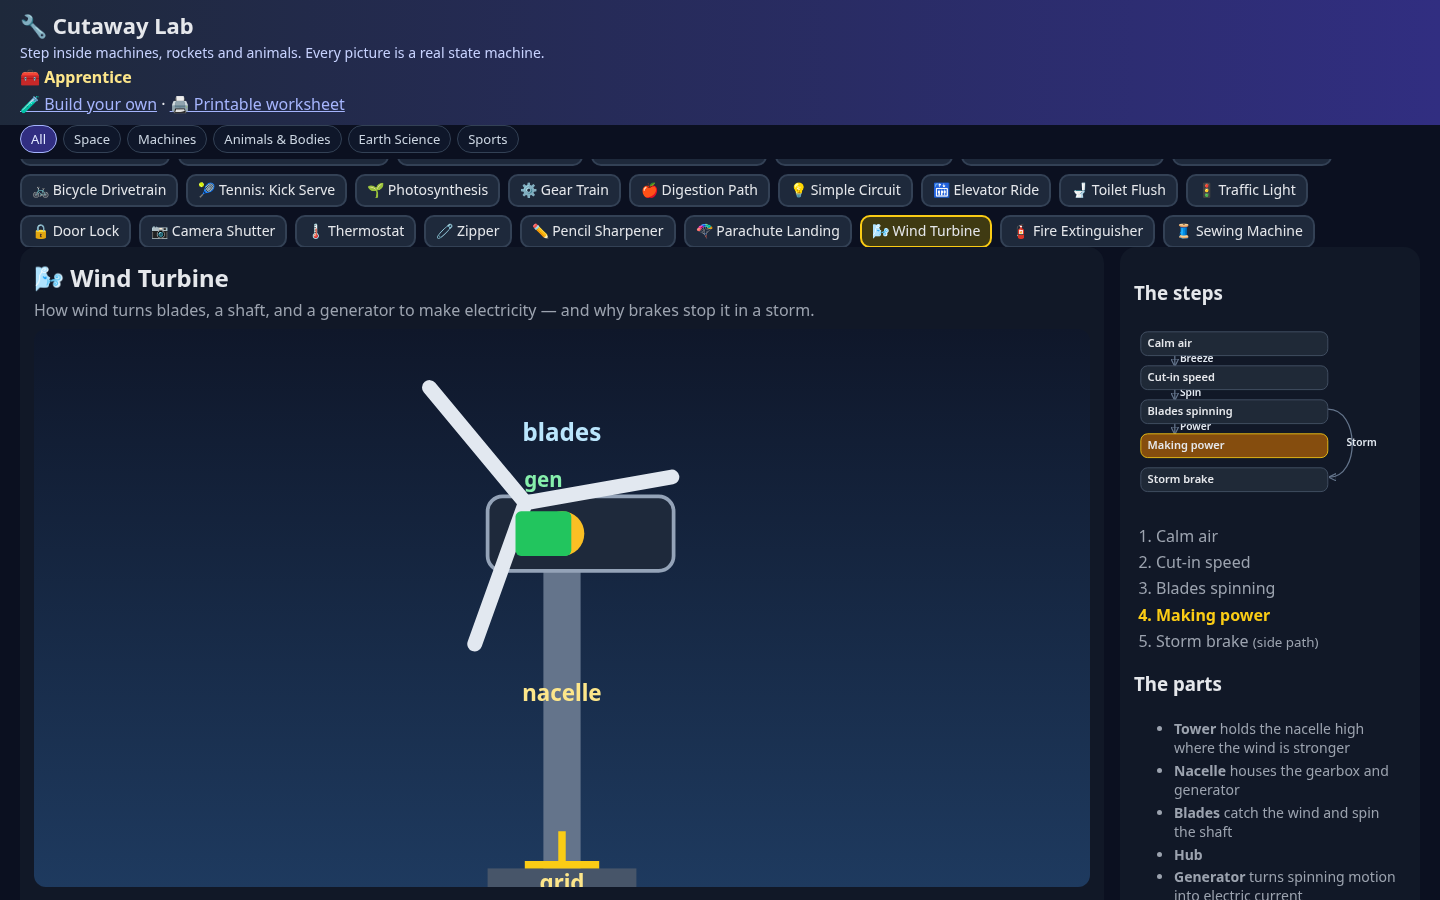
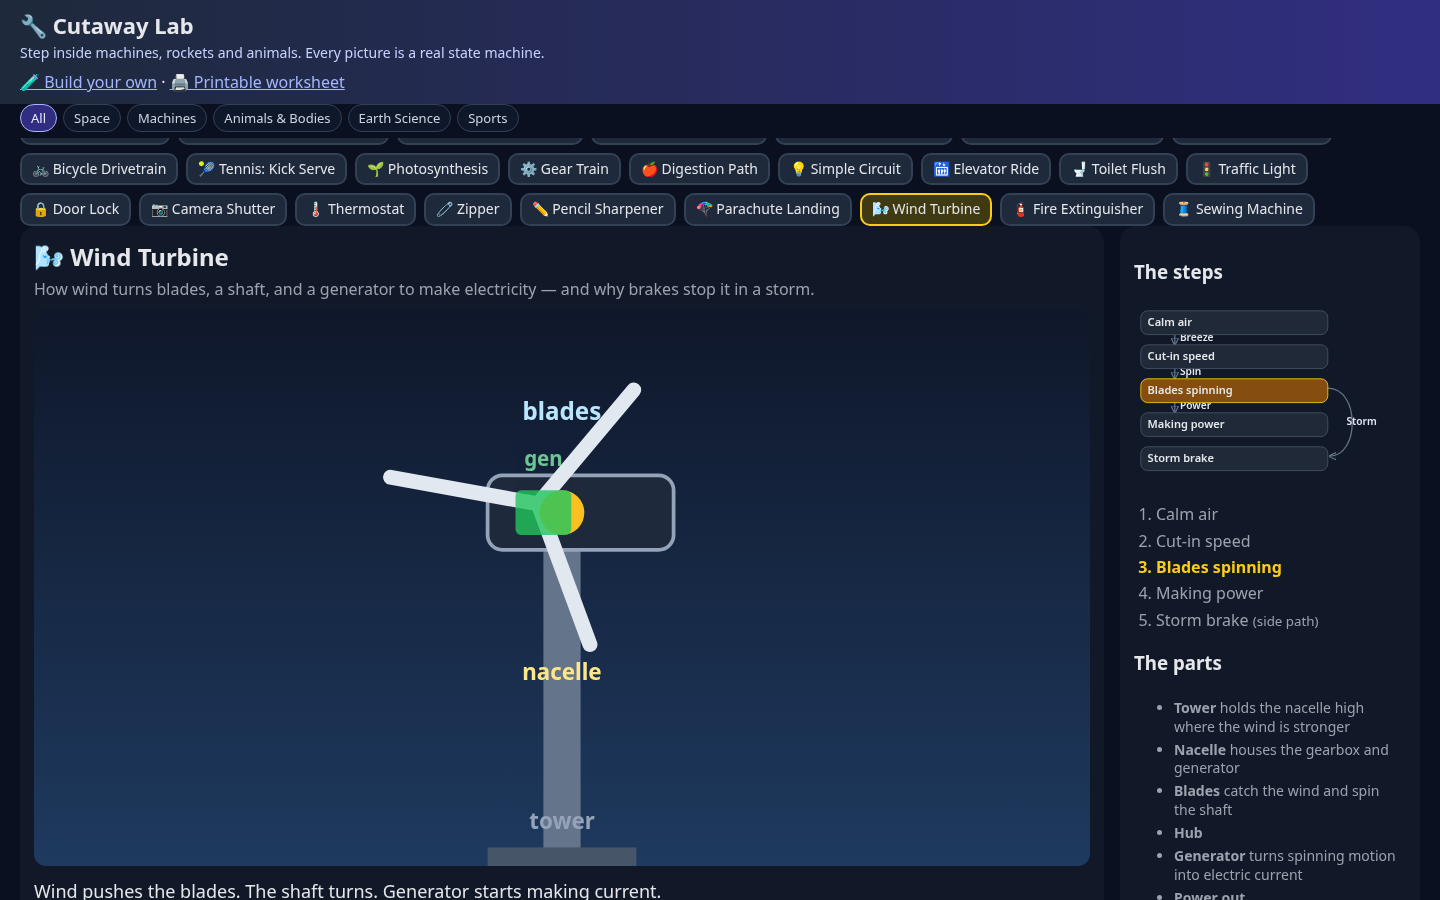
v1.0: wind turbine tower caption at the base

Changed region(s): [[0.0, 0.0622, 1.0, 1.0], [0.0, 0.9022, 0.7812, 1.0], [0.25, 0.4044, 0.4688, 0.7778]]

diff --git a/machines/turbine.js b/machines/turbine.js
@@ -5,6 +5,8 @@ export default {
   parts: [
     { id: 'tower', label: 'Tower', job: 'holds the nacelle high where the wind is stronger',
       svg: '<rect x="190" y="120" width="20" height="180" fill="#64748b"/><rect x="160" y="290" width="80" height="16" fill="#475569"/>', explode: [0, 40] },
+    { id: 'lblTower', label: 'Tower label',
+      svg: '<text x="200" y="280" text-anchor="middle" fill="#94a3b8" font-size="12" font-weight="700">tower</text>' },
     { id: 'nacelle', label: 'Nacelle', job: 'houses the gearbox and generator',
       svg: '<rect x="160" y="90" width="100" height="40" rx="8" fill="#1e293b" stroke="#94a3b8" stroke-width="2"/>', explode: [50, 0] },
     { id: 'blades', label: 'Blades', job: 'catch the wind and spin the shaft',
